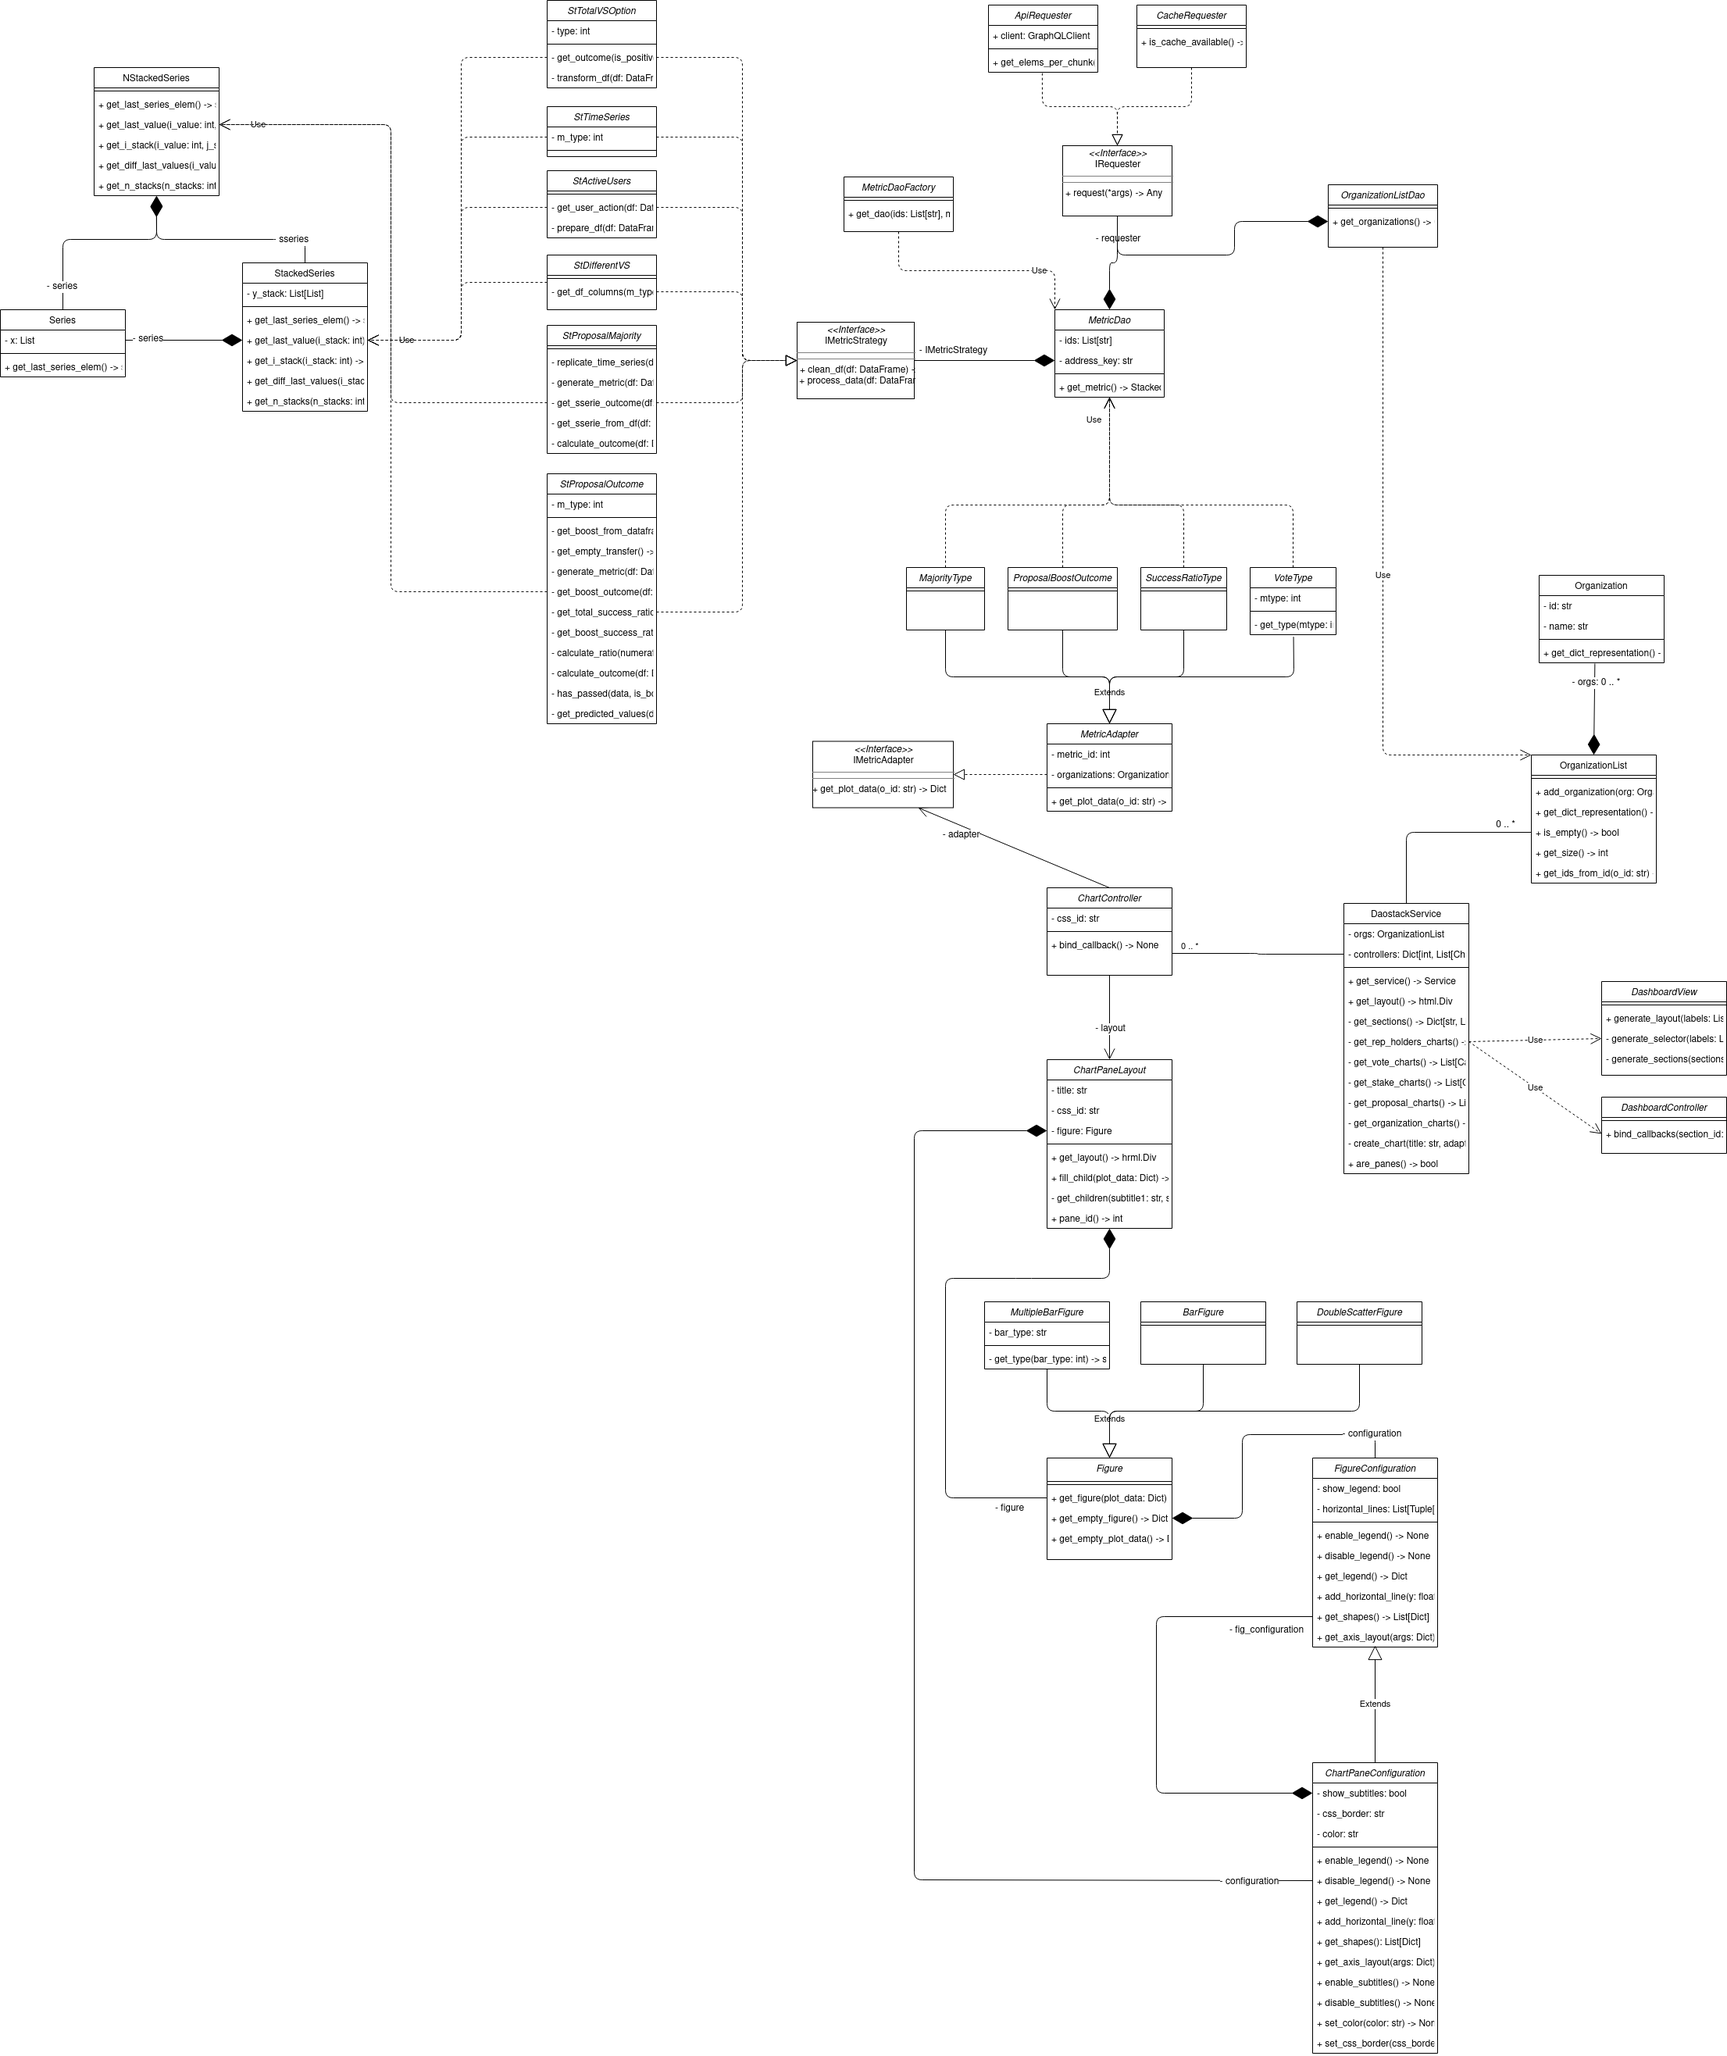
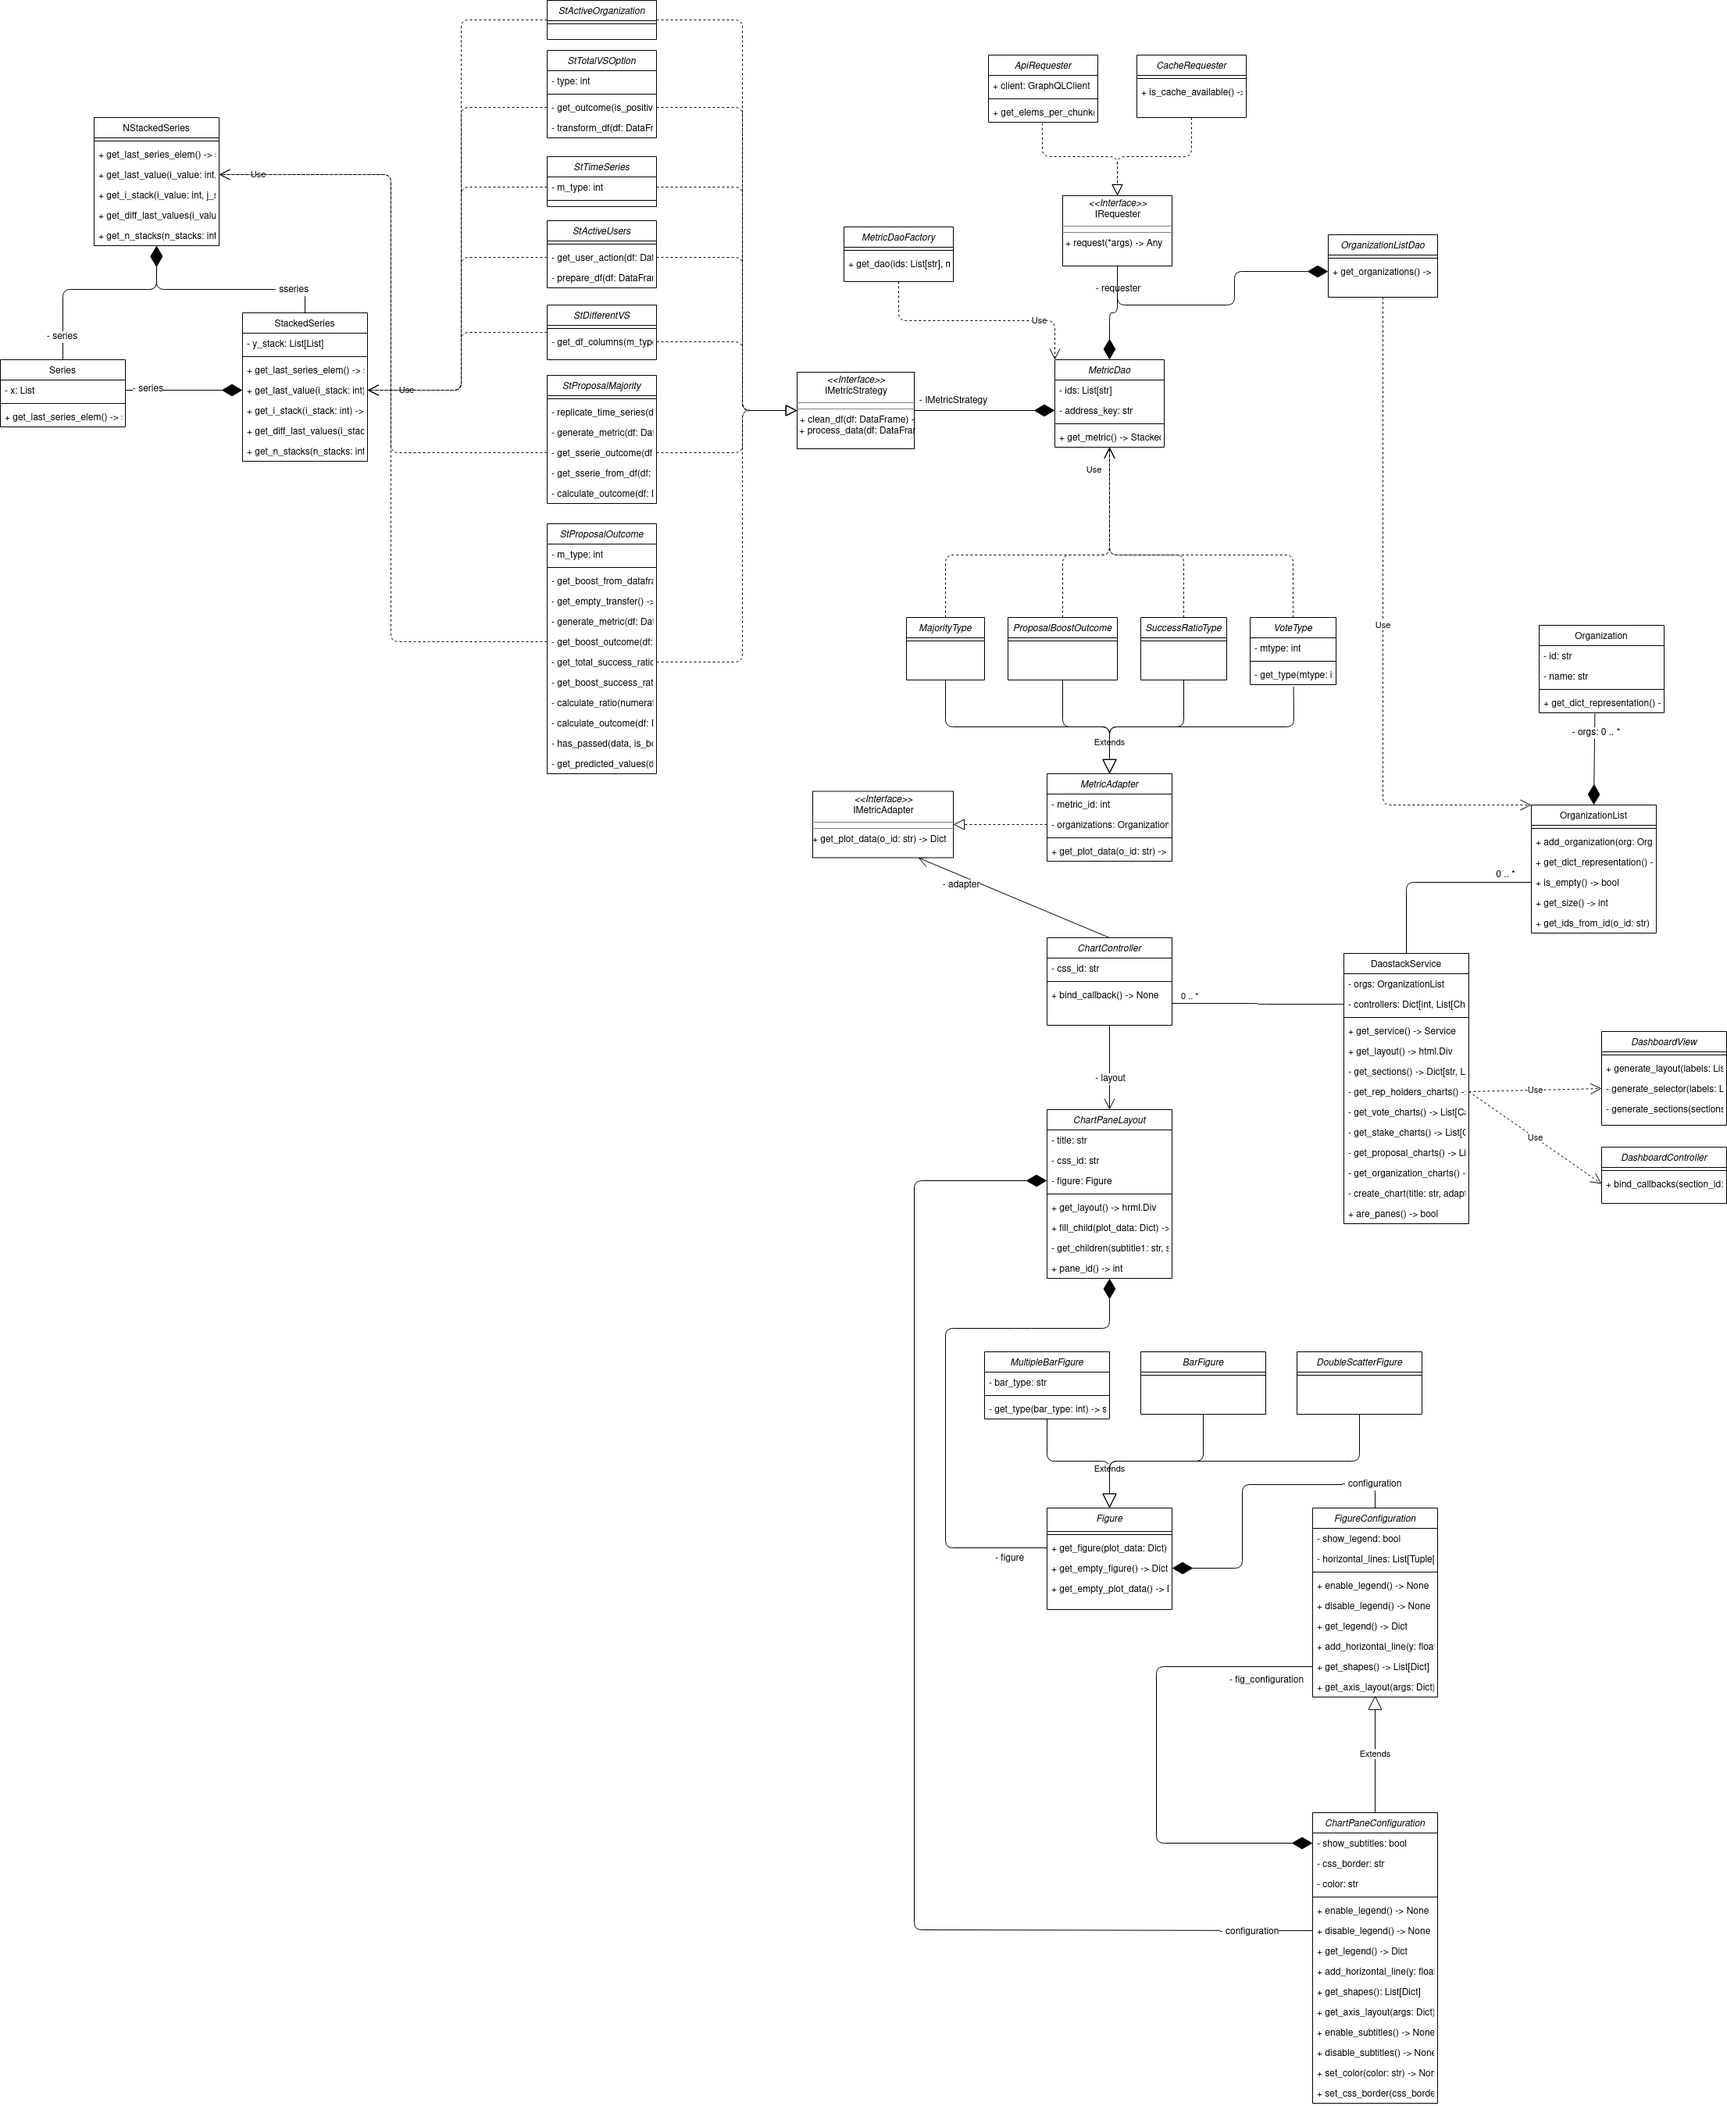
Added DAOstack active organization metric

diff --git a/src/apps/daostack/data_access/daos/metric/strategy/st_active_organization.py b/src/apps/daostack/data_access/daos/metric/strategy/st_active_organization.py
@@ -1,0 +1,66 @@
+"""
+   Descp: Strategy pattern to create active DAO(meaning organizations) metric.
+          It'll show the number of active DAOs each month,
+          whether just one DAO is selected it will show the month when 
+          it was active.
+
+   Created on: 23-oct-2020
+
+   Copyright 2020-2021 Youssef 'FRYoussef' El Faqir El Rhazoui
+        <f.r.youssef@hotmail.com>
+"""
+
+import pandas as pd
+
+from src.apps.common.data_access.daos.metric.imetric_strategy \
+    import IMetricStrategy
+
+from src.apps.common.business.transfers.stacked_serie import StackedSerie
+from src.apps.common.business.transfers.serie import Serie
+import src.apps.common.data_access.pandas_utils as pd_utl
+
+
+class StActiveOrganization(IMetricStrategy):
+    __DF_DATE = 'createdAt'
+    __DF_ID = 'dao'
+    __DF_COUNT = 'count'
+    __DF_COLS = [__DF_DATE, __DF_ID]
+
+
+    def clean_df(self, df: pd.DataFrame) -> pd.DataFrame:
+        dff: pd.DataFrame = df
+        dff.loc[:, self.__DF_COLS] = dff[self.__DF_COLS]
+        return dff
+
+
+    def process_data(self, df: pd.DataFrame) -> StackedSerie:
+        if pd_utl.is_an_empty_df(df):
+            return StackedSerie()
+
+        df = self.clean_df(df=df)
+
+        # takes just the month
+        df = pd_utl.unix_to_date(df, self.__DF_DATE)
+        df = pd_utl.transform_to_monthly_date(df, self.__DF_DATE)
+
+        # join dates-ids
+        df = pd_utl.count_cols_repetitions(df, self.__DF_COLS, self.__DF_COUNT)
+        # different users by month
+        df = pd_utl.count_cols_repetitions(df, [self.__DF_DATE], self.__DF_COUNT)
+
+        # generates a time series
+        idx = pd_utl.get_monthly_serie_from_df(df, self.__DF_DATE)
+        dff = pd_utl.get_df_from_lists([idx, 0], [self.__DF_DATE, self.__DF_COUNT])
+        dff = pd_utl.datetime_to_date(dff, self.__DF_DATE)
+
+        # joinning all the data in a unique dataframe
+        df = df.append(dff, ignore_index=True)
+        df.drop_duplicates(subset=self.__DF_DATE, keep="first", inplace=True)
+        df.sort_values(self.__DF_DATE, inplace=True)
+
+        serie: Serie = Serie(x=df[self.__DF_DATE].tolist())
+        metric: StackedSerie = StackedSerie(
+            serie = serie, 
+            y_stack = [df[self.__DF_COUNT].tolist()])
+
+        return metric

diff --git a/test/unit/apps/daostack/data_access/daos/metric/strategy/test_st_active_organization_daostack.py b/test/unit/apps/daostack/data_access/daos/metric/strategy/test_st_active_organization_daostack.py
@@ -1,0 +1,49 @@
+"""
+   Descp: Tester for active organization strategy.
+
+   Created on: 23-oct-2020
+
+   Copyright 2020-2021 Youssef 'FRYoussef' El Faqir El Rhazoui
+        <f.r.youssef@hotmail.com>
+"""
+
+import unittest
+from typing import List
+import pandas as pd
+
+from test.mocks.unix_date_builder import UnixDateBuilder
+from src.apps.daostack.data_access.daos.metric.strategy.\
+    st_active_organization import StActiveOrganization
+from src.apps.common.business.transfers.stacked_serie import StackedSerie
+
+
+class StActiveOrganizationTest(unittest.TestCase):
+
+    def __check_lists(self, df: pd.DataFrame, out: List[int]) -> None:
+        strategy: StActiveOrganization = StActiveOrganization()
+        result: StackedSerie = strategy.process_data(df=df)
+
+        self.assertListEqual(out, result.get_i_stack(i_stack=0))
+
+
+    def test_process_data(self):
+        bl: UnixDateBuilder = UnixDateBuilder()
+        bl.sub(month=2).change(day=25, hour=0, minute=0, second=0)
+
+        in_df: pd.DataFrame = pd.DataFrame([
+            {'dao': '0', 'trash': 'trash', 'createdAt': bl.unix()}, #today_year-(today_month-2)-25T00:00:00+00:00
+            {'dao': '0', 'trash': 'trash', 'createdAt': bl.unix()}, #today_year-(today_month-2)-25T00:00:00+00:00
+            {'dao': '0', 'trash': 'trash', 'createdAt': bl.add(month=1).change(day=1, hour=23).unix()}, #today_year-(today_month-1)-01T23:00:00+00:00
+            {'dao': '1', 'trash': 'trash', 'createdAt': bl.sub(month=1).change(minute=59, second=59).unix()}, #today_year-(today_month-2)-01T23:59:59+00:00
+            {'dao': '1', 'trash': 'trash', 'createdAt': bl.unix()}, #today_year-(today_month-2)-01T23:59:59+00:00
+            {'dao': '3', 'trash': 'trash', 'createdAt': bl.add(month=2).change(day=15, hour=0).unix()}, #today_year-today_month-15T00:00:00+00:00
+            {'dao': '2', 'trash': 'trash', 'createdAt': bl.change(day=21).unix()}, #today_year-today_month-21T00:00:00+00:00
+            {'dao': '3', 'trash': 'trash', 'createdAt': bl.unix()}, #today_year-today_month-21T00:00:00+00:00
+        ])
+        out: List[int] = [2, 1, 2]
+
+        self.__check_lists(df=in_df, out=out)
+
+
+if __name__ == "__main__":
+    unittest.main()

diff --git a/src/apps/daostack/data_access/daos/metric/metric_dao_factory.py b/src/apps/daostack/data_access/daos/metric/metric_dao_factory.py
@@ -23,6 +23,8 @@ import src.apps.daostack.data_access.daos.metric.strategy.\
     st_total_votes_stakes_option as st_tvso
 from src.apps.daostack.data_access.daos.metric.strategy.st_active_users\
     import StActiveUsers
+from src.apps.daostack.data_access.daos.metric.strategy.st_active_organization\
+    import StActiveOrganization
 
 NEW_USERS = 0
 NEW_PROPOSALS = 1
@@ -37,6 +39,7 @@ PROPOSALS_BOOST_SUCCES_RATIO = 9
 TOTAL_VOTES_OPTION = 10
 TOTAL_STAKES_OPTION = 11
 ACTIVE_USERS = 12
+ACTIVE_ORGANIZATION = 13
 
 
 def get_dao(ids: List[str], metric: int) -> MetricDao: # noqa: C901
@@ -84,6 +87,12 @@ def get_dao(ids: List[str], metric: int) -> MetricDao: # noqa: C901
         requester = cache.CacheRequester(srcs=[
             cache.PROPOSALS, 
             cache.VOTES, 
+            cache.STAKES])
+    elif metric == ACTIVE_ORGANIZATION:
+        stg = StActiveOrganization()
+        requester = cache.CacheRequester(srcs=[
+            cache.PROPOSALS,
+            cache.VOTES,
             cache.STAKES])
 
     return MetricDao(ids=ids, strategy=stg, requester=requester, address_key='dao')

diff --git a/src/apps/daostack/business/app_service.py b/src/apps/daostack/business/app_service.py
@@ -169,7 +169,18 @@ class DaostackService():
 
 
     def __get_organization_charts(self) -> List[Callable[[], html.Div]]:
-        return [lambda: html.Div()]
+        charts: List[Callable] = list()
+        call: Callable = self.organizations
+
+        # active organizations
+        charts.append(self.__create_chart(
+            title=TEXT['title_active_organization'],
+            adapter=MetricAdapter(s_factory.ACTIVE_ORGANIZATION, call),
+            figure=BarFigure(),
+            cont_key=self._ORGANIZATION
+        ))
+
+        return charts
 
 
     def __get_rep_holder_charts(self) -> List[Callable[[], html.Div]]:

diff --git a/src/apps/daostack/resources/strings.py b/src/apps/daostack/resources/strings.py
@@ -38,6 +38,7 @@ TEXT: dict = {
     'rep_holder_title': 'Reputation holders',
     'rel_pass': 'Relative majority approval',
     'stake_title': 'Stakes',
+    'title_active_organization': 'Months which the DAO has registered activity',
     'total_stakes_option_title': 'Total stakes option',
     'total_stakes_title': 'Total stakes',
     'total_votes_option_title': 'Total votes option',

diff --git a/test/unit/apps/daohaus/data_access/daos/metric/strategy/test_st_active_organization_daohaus.py b/test/unit/apps/daohaus/data_access/daos/metric/strategy/test_st_active_organization_daohaus.py
@@ -18,7 +18,7 @@ from src.apps.daohaus.data_access.daos.metric.strategy.\
 from src.apps.common.business.transfers.stacked_serie import StackedSerie
 
 
-class StActiveMembersTest(unittest.TestCase):
+class StActiveOrganizationTest(unittest.TestCase):
 
     def __check_lists(self, df: pd.DataFrame, out: List[int]) -> None:
         strategy: StActiveOrganization = StActiveOrganization()
